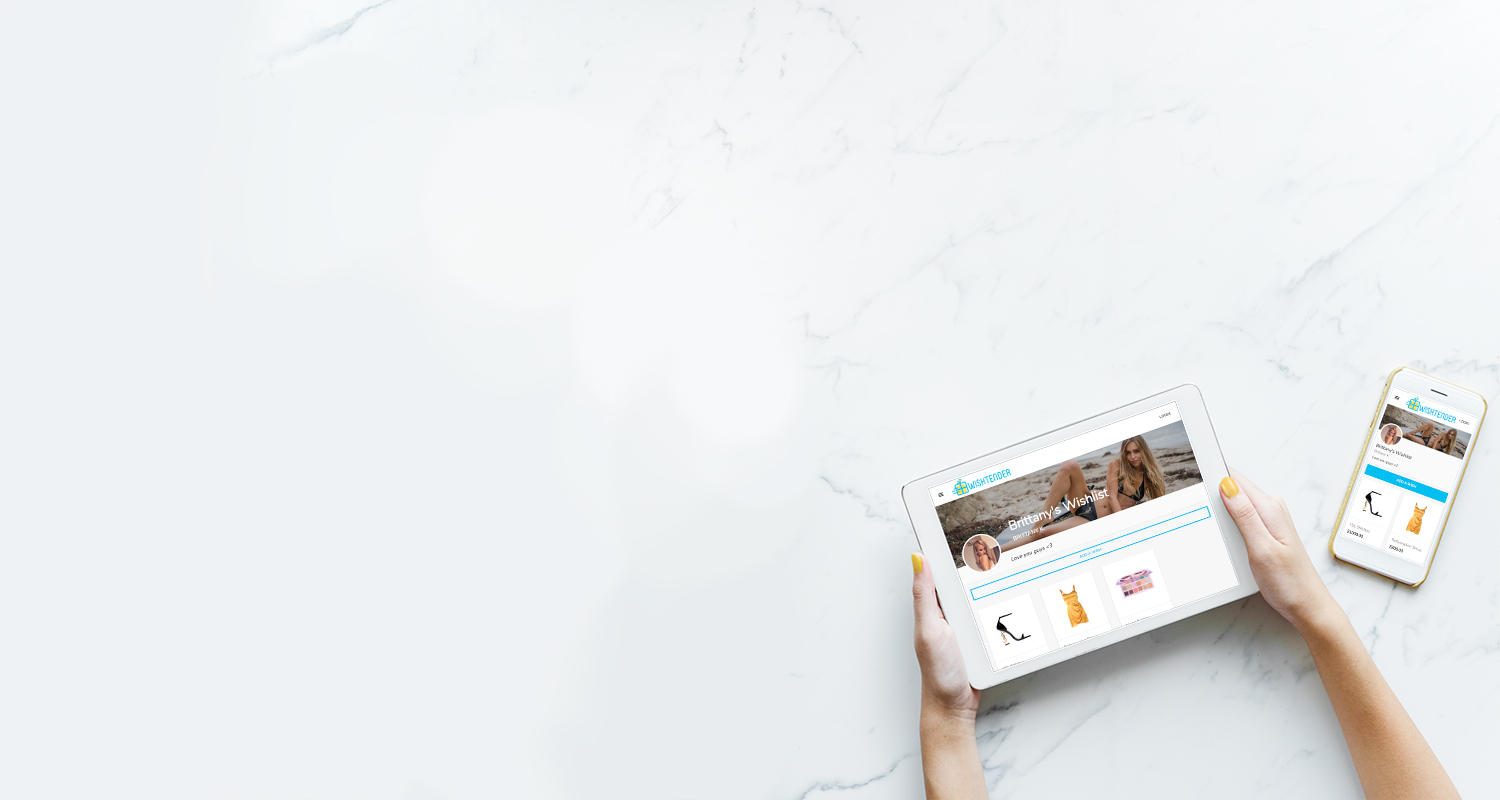
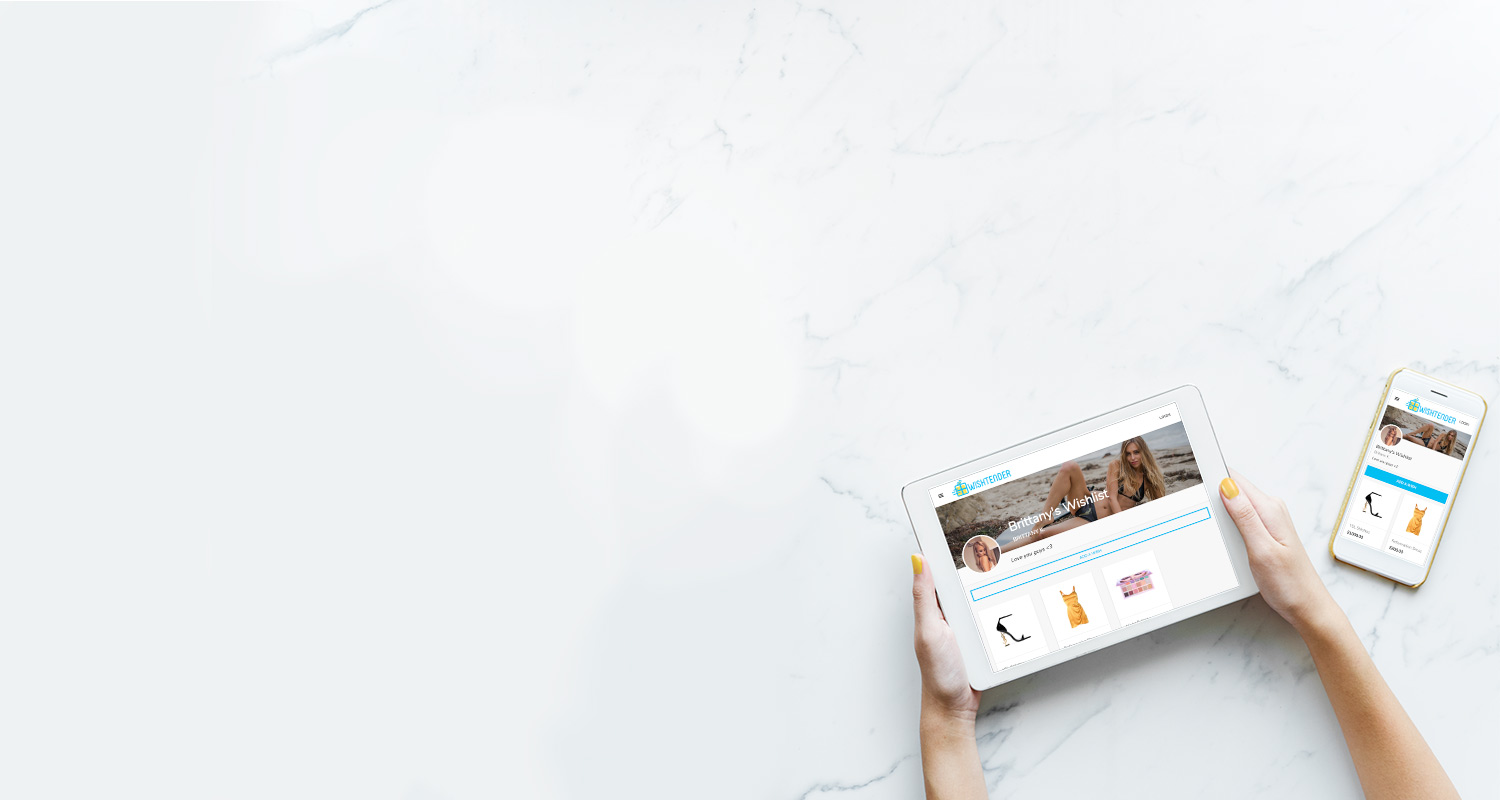
optimized images, turned google analytics on

diff --git a/public/index.html b/public/index.html
@@ -36,7 +36,7 @@
     -->
     <title>WishTender</title>
     <!-- Global site tag (gtag.js) - Google Analytics -->
-    <!-- <script
+    <script
       async
       src="https://www.googletagmanager.com/gtag/js?id=UA-177207770-1"
     ></script>
@@ -48,7 +48,7 @@
       gtag("js", new Date());
 
       gtag("config", "UA-177207770-1");
-    </script> -->
+    </script>
   </head>
   <body>
     <noscript>You need to enable JavaScript to run this app.</noscript>

diff --git a/src/components/LandingPage/LandingPage.js b/src/components/LandingPage/LandingPage.js
@@ -57,7 +57,7 @@ function fourPointExplanation() {
           <div className="icon">
             <img src="images/icon_secure_address.png" />
           </div>
-          <h3>Secure Shipping</h3>
+          <h3>Hide Shipping Address</h3>
           <p>
             Keep your mailing address and legal name private so you can receive
             gifts safely.

diff --git a/src/myapp.css b/src/myapp.css
@@ -491,7 +491,7 @@ header.MuiPaper-elevation4.shadow {
     letter-spacing: 0vw;
   }
   .hero_section .text h3 {
-    font-size: 1.3vw;
+    font-size: 1.8vw;
     letter-spacing: 0.1vw;
     margin-bottom: 0;
   }
